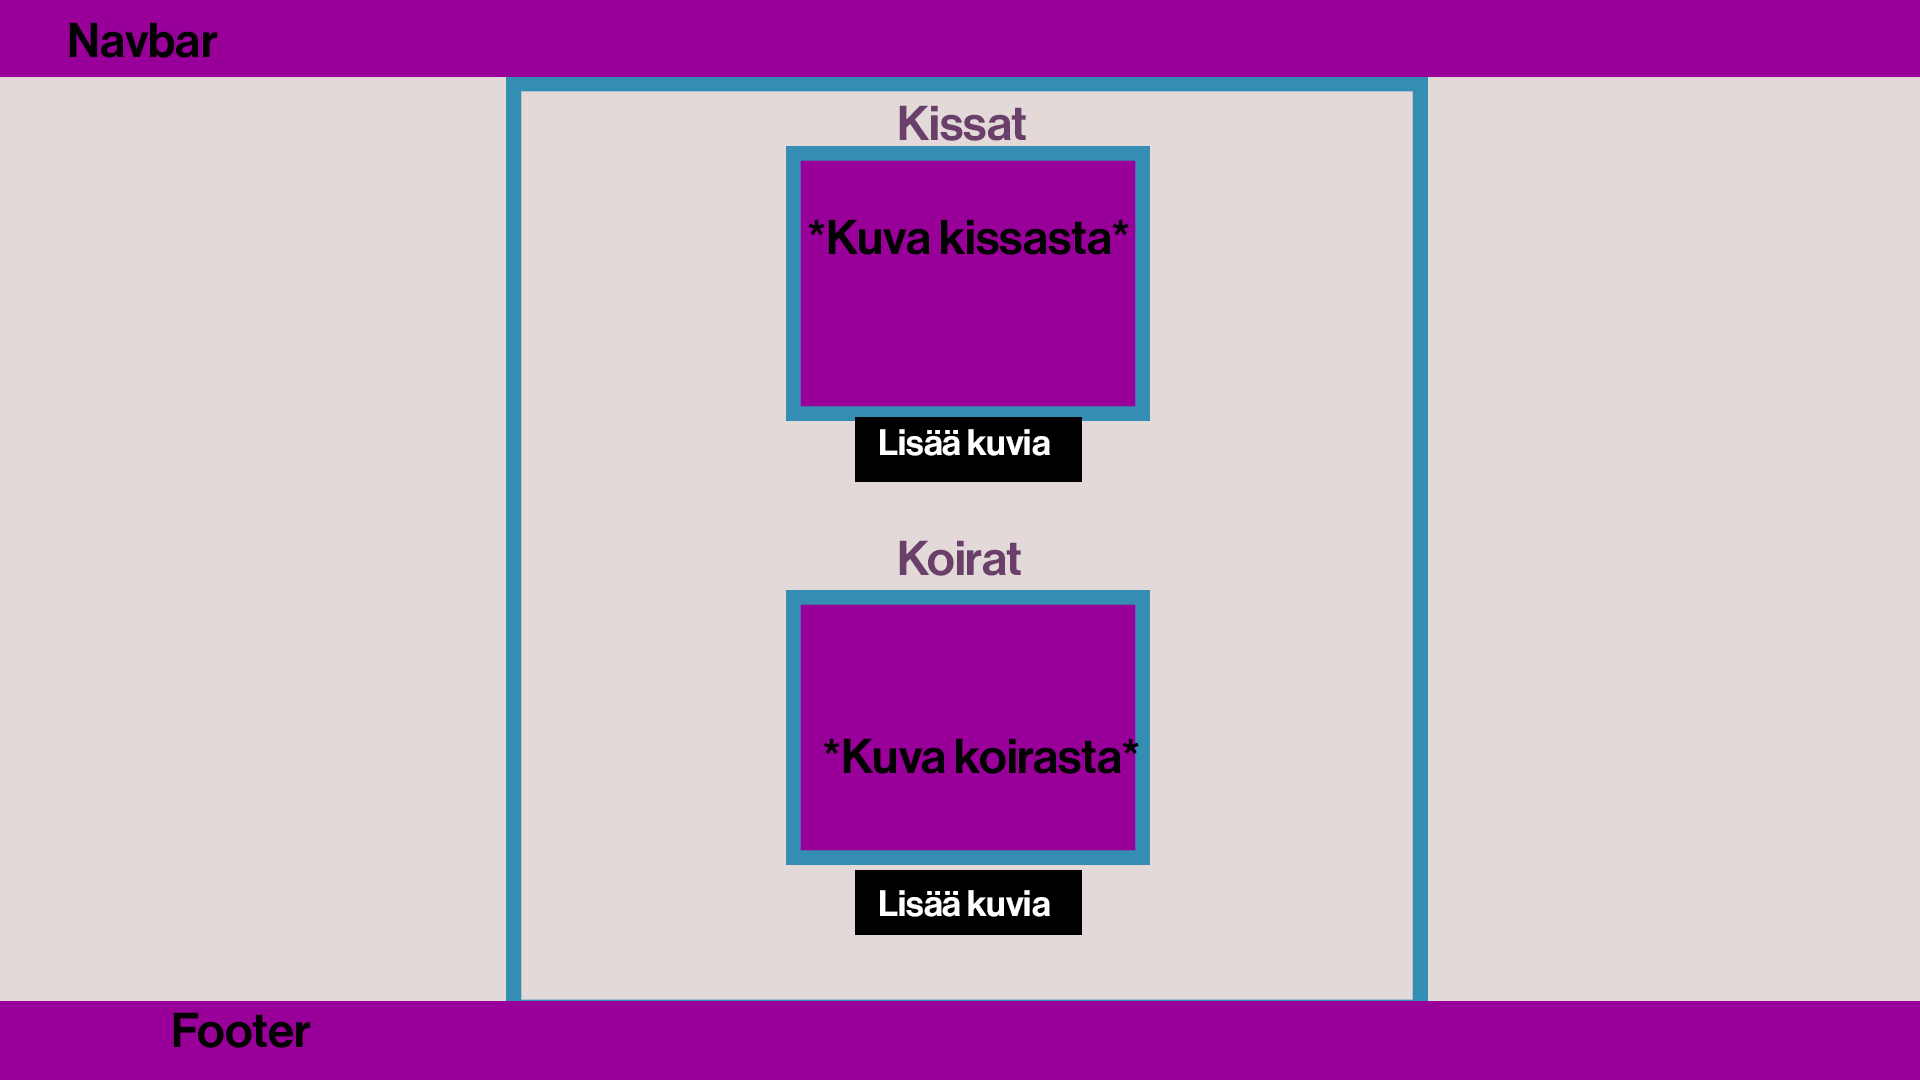
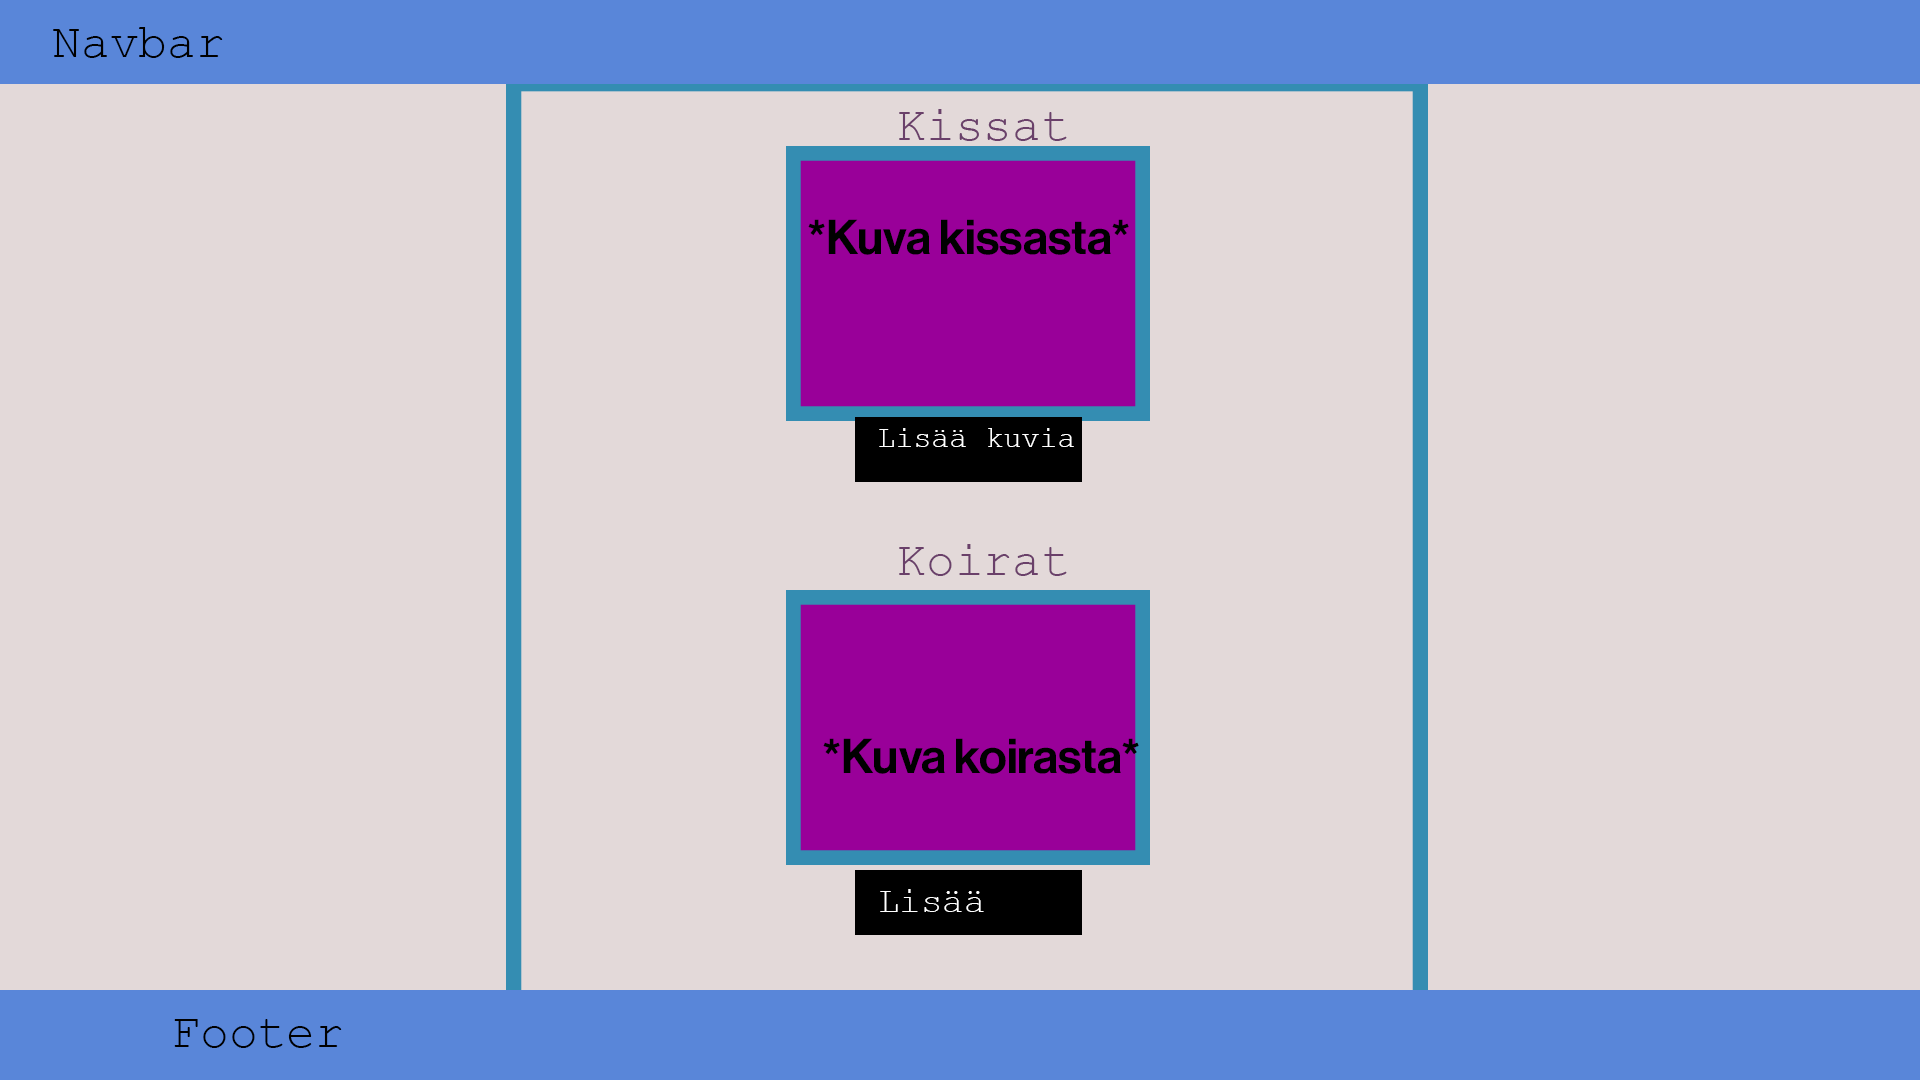
added gitignore

diff --git a/pages/koirat.html b/pages/koirat.html
@@ -6,7 +6,7 @@
     <meta name="viewport" content="width=device-width, initial-scale=1.0">
     <link rel="stylesheet" href="https://cdn.jsdelivr.net/npm/bootstrap@4.3.1/dist/css/bootstrap.min.css" integrity="sha384-ggOyR0iXCbMQv3Xipma34MD+dH/1fQ784/j6cY/iJTQUOhcWr7x9JvoRxT2MZw1T" crossorigin="anonymous">
     <link rel="stylesheet" href="../style.css">
-    <title>Document</title>
+    <title>Eläinkuvia</title>
 
 </head>
 <body>
@@ -20,16 +20,12 @@
   <div class="collapse navbar-collapse" id="navbarSupportedContent">
     <ul class="navbar-nav mr-auto">
       <li class="nav-item active">
-        <a class="nav-link" href="../index.html">Home <span class="sr-only">(current)</span></a>
+        <a class="nav-link" href="../index.html"> <div id="navlinkki">Aloitussivu</div>  <span class="sr-only">(current)</span></a>
       </li>
-      <li class="nav-item">
-        <a class="nav-link" href="#">Link</a>
-      </li>
-    
+
     </ul>
   </div>
 </nav>
-
 
 
 <div id="carouselExampleControls" class="carousel slide" data-ride="carousel">
@@ -65,7 +61,7 @@
 
 
 
-
+<script src="../scripts/script.js"></script>
 <script src="https://kit.fontawesome.com/6b3bfd0ad7.js" crossorigin="anonymous"></script>
 <script src="https://code.jquery.com/jquery-3.3.1.slim.min.js" integrity="sha384-q8i/X+965DzO0rT7abK41JStQIAqVgRVzpbzo5smXKp4YfRvH+8abtTE1Pi6jizo" crossorigin="anonymous"></script>
 <script src="https://cdn.jsdelivr.net/npm/popper.js@1.14.7/dist/umd/popper.min.js" integrity="sha384-UO2eT0CpHqdSJQ6hJty5KVphtPhzWj9WO1clHTMGa3JDZwrnQq4sF86dIHNDz0W1" crossorigin="anonymous"></script>

diff --git a/pages/kissat.html b/pages/kissat.html
@@ -6,7 +6,7 @@
     <meta name="viewport" content="width=device-width, initial-scale=1.0">
     <link rel="stylesheet" href="https://cdn.jsdelivr.net/npm/bootstrap@4.3.1/dist/css/bootstrap.min.css" integrity="sha384-ggOyR0iXCbMQv3Xipma34MD+dH/1fQ784/j6cY/iJTQUOhcWr7x9JvoRxT2MZw1T" crossorigin="anonymous">
     <link rel="stylesheet" href="../style.css">
-    <title>Document</title>
+    <title>Eläinkuvia</title>
 
 </head>
 <body>
@@ -20,11 +20,9 @@
   <div class="collapse navbar-collapse " id="navbarSupportedContent">
     <ul class="navbar-nav mr-auto">
       <li class="nav-item active">
-        <a class="nav-link" href="#">Home <span class="sr-only">(current)</span></a>
+        <a class="nav-link" href="#"> <div id="navlinkki">Aloitussivu</div> <span class="sr-only">(current)</span></a>
       </li>
-      <li class="nav-item">
-        <a class="nav-link" href="#">Link</a>
-      </li>
+
     
     </ul>
   </div>

diff --git a/index.html b/index.html
@@ -6,7 +6,7 @@
     <meta name="viewport" content="width=device-width, initial-scale=1.0">
     <link rel="stylesheet" href="https://cdn.jsdelivr.net/npm/bootstrap@4.3.1/dist/css/bootstrap.min.css" integrity="sha384-ggOyR0iXCbMQv3Xipma34MD+dH/1fQ784/j6cY/iJTQUOhcWr7x9JvoRxT2MZw1T" crossorigin="anonymous">
     <link rel="stylesheet" href="style.css">
-    <title>Document</title>
+    <title>Eläinkuvia</title>
 
 </head>
 <body>
@@ -20,10 +20,7 @@
   <div class="collapse navbar-collapse" id="navbarSupportedContent">
     <ul class="navbar-nav mr-auto ">
       <li class="nav-item active">
-        <a class="nav-link" href="#">Home <span class="sr-only">(current)</span></a>
-      </li>
-      <li class="nav-item">
-        <a class="nav-link" href="#">Link</a>
+        <a class="nav-link" href="./index.html"> <div id="navlinkki">Aloitussivu</div> <span class="sr-only">(current)</span></a>
       </li>
     
     </ul>

diff --git a/style.css b/style.css
@@ -1,3 +1,7 @@
+*{
+    font-family: 'Courier New', Courier, monospace;
+}
+
 .omavari{
     background-color: #5986D9!important;
 }
@@ -26,6 +30,15 @@ body{
 #description{
     text-align: center;
     font-size: 2em;
+}
+
+#navlinkki{
+    padding: 5px;
+}
+#navlinkki:hover{
+    background-color: aliceblue !important;
+    padding: 5px;
+    border-radius: 10px;
 }
 
 
